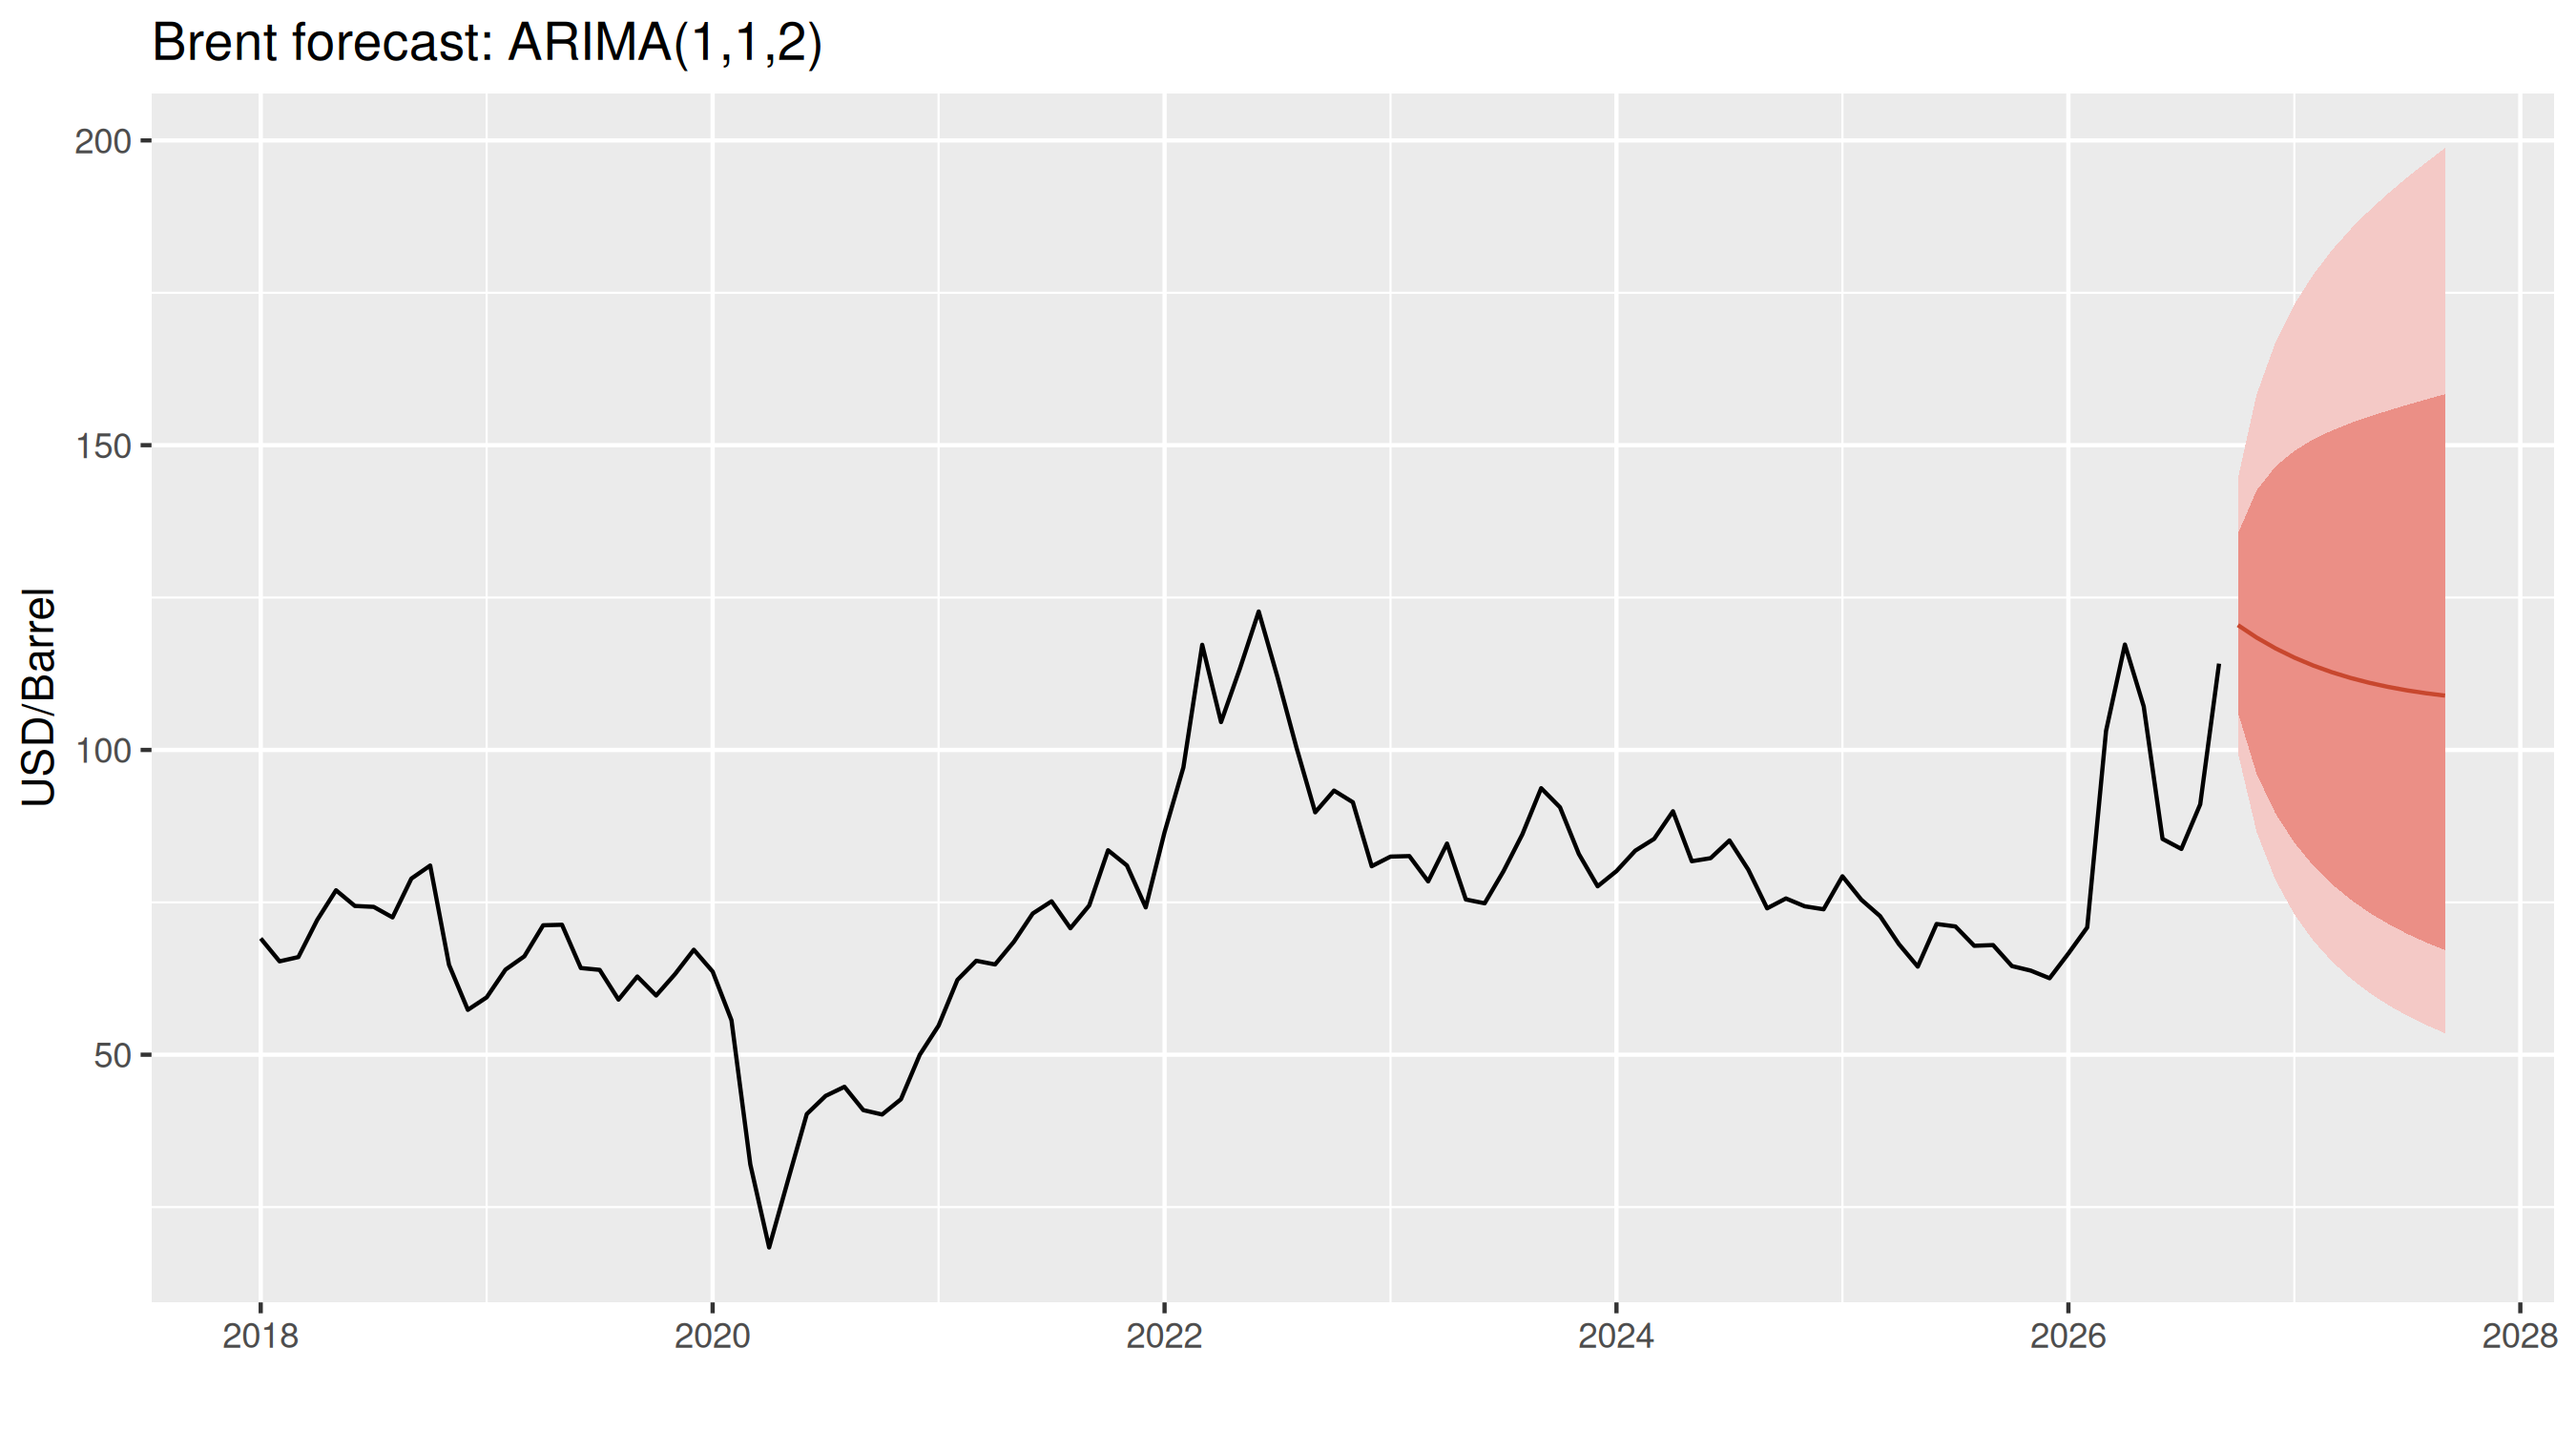
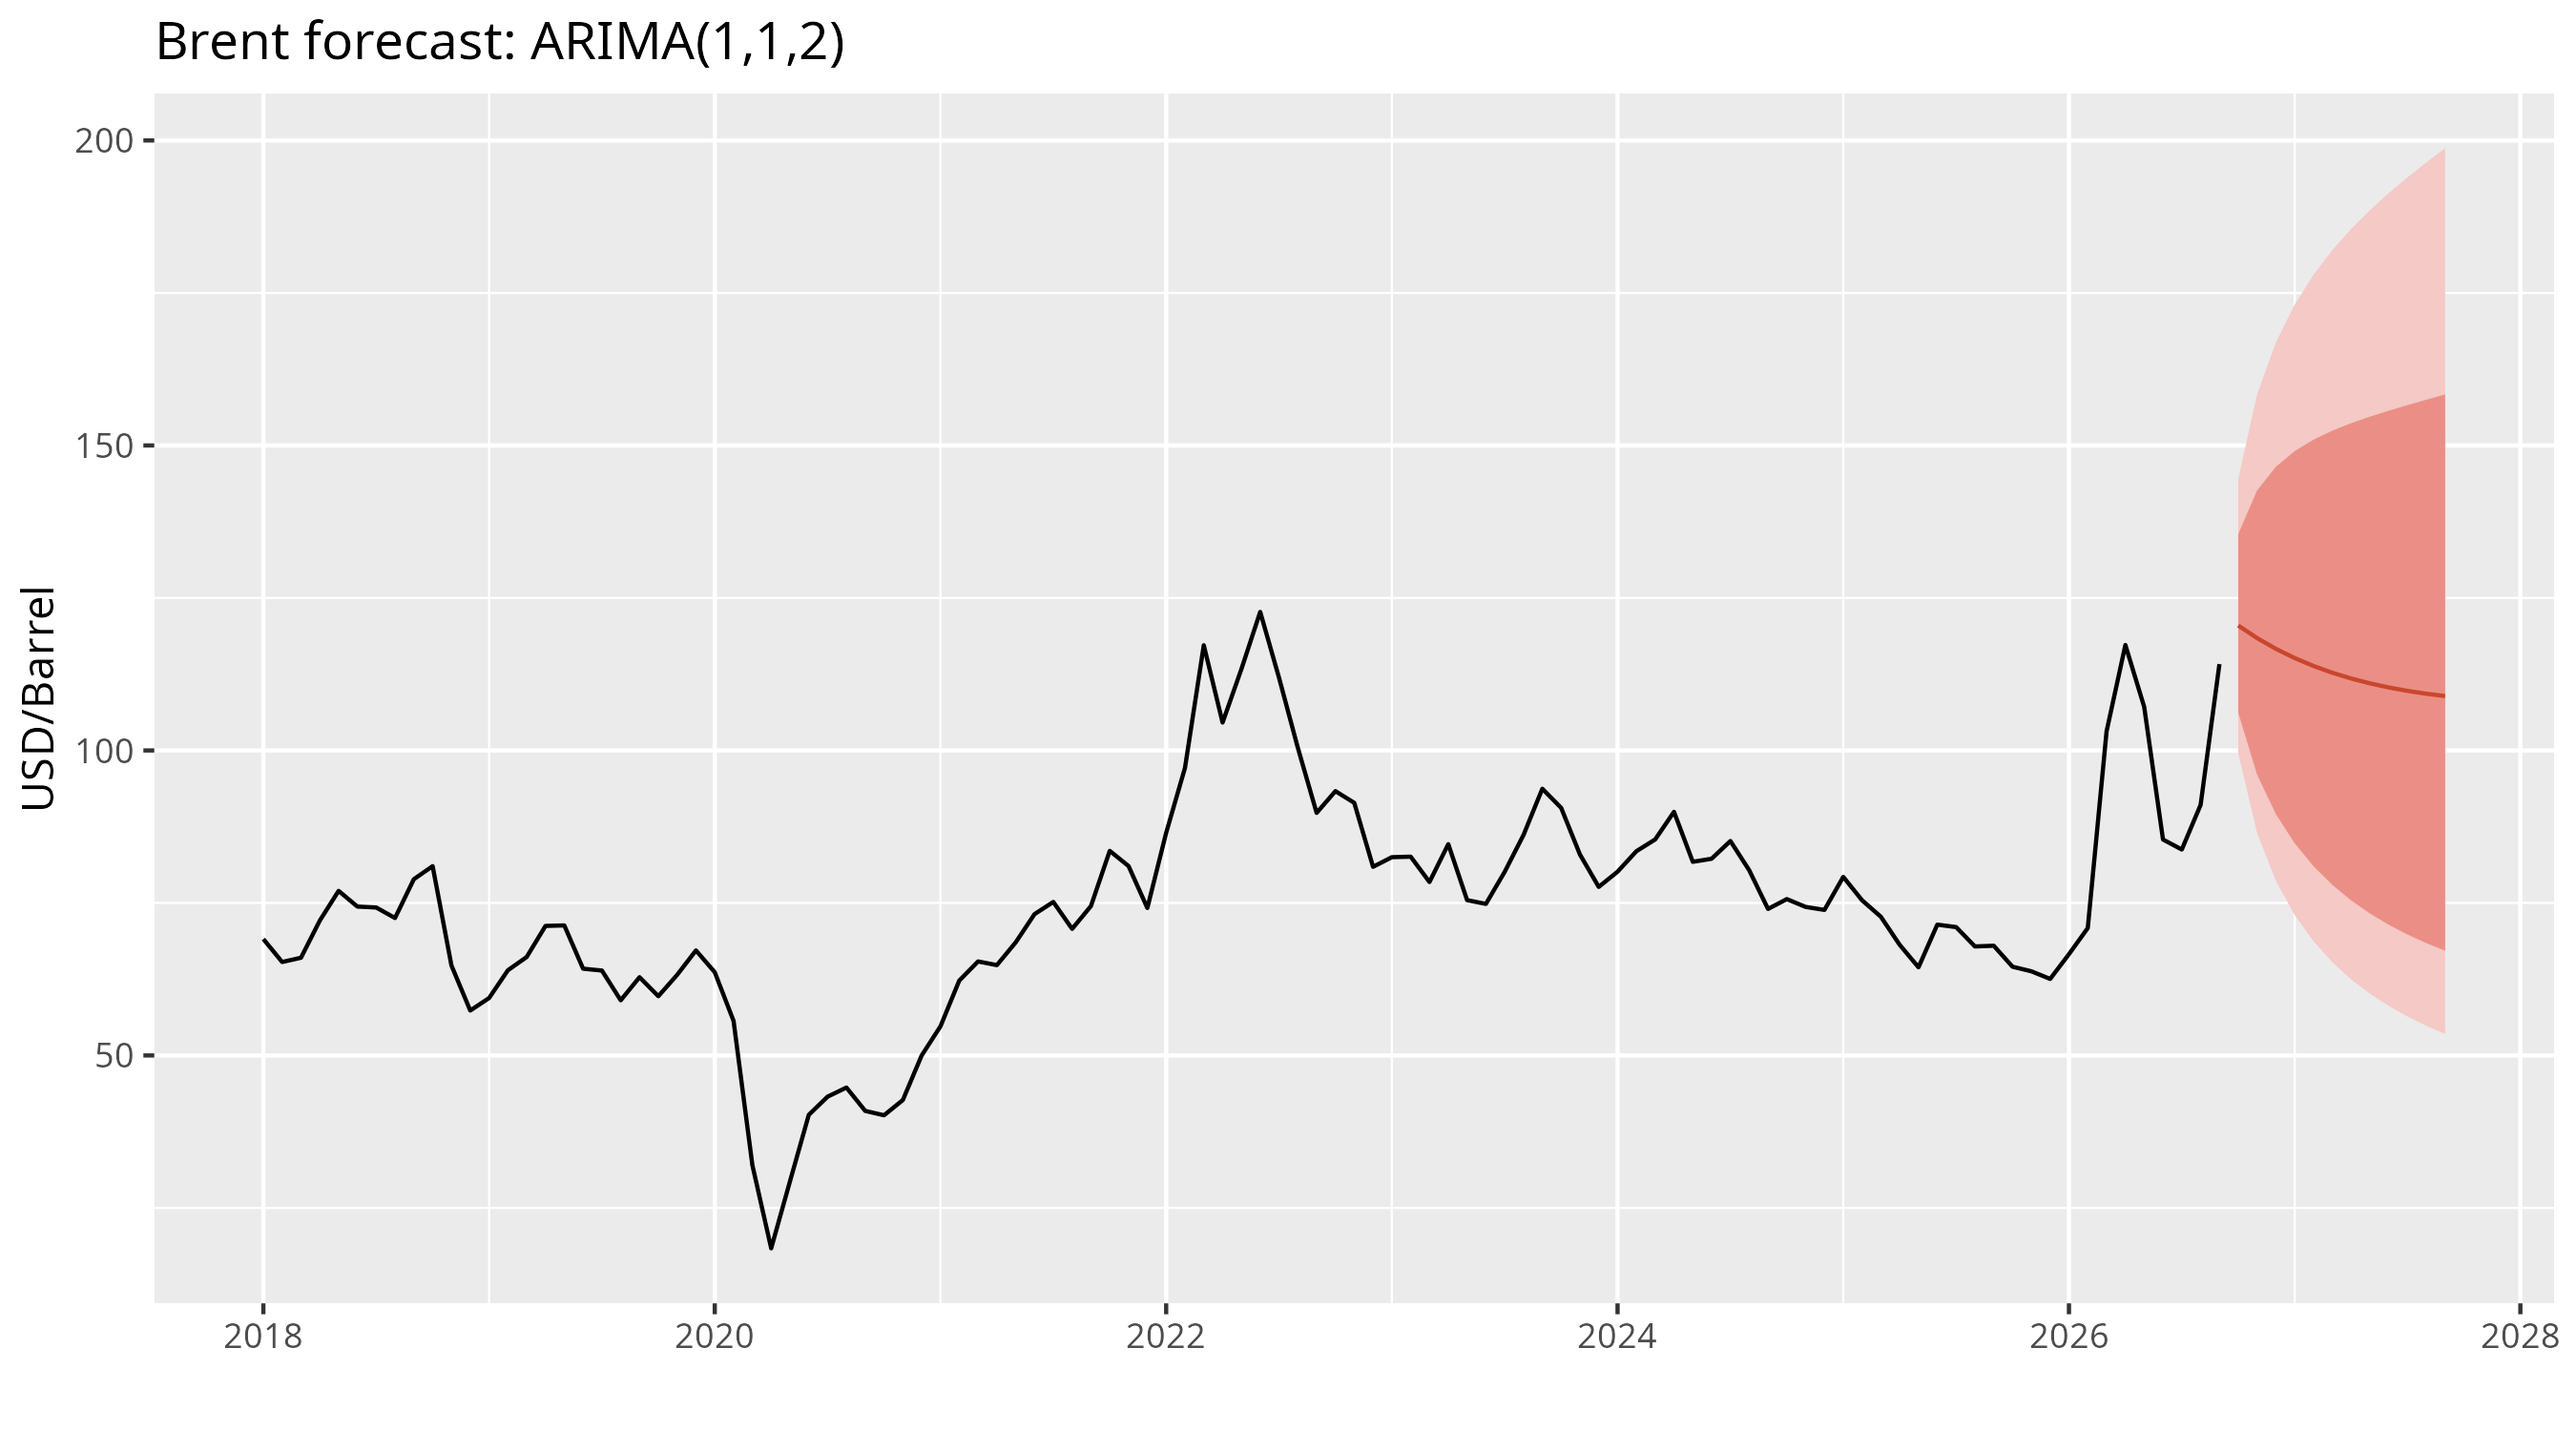
Forecast table in README, updated by Brent.R

diff --git a/README.md b/README.md
@@ -6,6 +6,31 @@ Time series forecasting of the **Europe Brent Spot Price FOB** (USD/barrel) with
 using the daily data published by the [EIA](https://www.eia.gov/dnav/pet/hist/LeafHandler.ashx?n=PET&s=rbrte&f=D)
 since 1987, aggregated to monthly means.
 
+## Latest forecast (monthly mean price, USD/barrel)
+
+![Forecast](plots/forecast-1.png)
+
+<!-- forecast:start -->
+Model **ARIMA(1,1,2)** on log(price). Data until **2026-10-20** (last price 115.2 USD), updated 2026-10-26.
+
+| Month | Forecast | 80 % interval | 95 % interval |
+| --- | ---: | :---: | :---: |
+| 2026-10 | 120.5 | 106.2 – 135.5 | 99.6 – 144.5 |
+| 2026-11 | 118.4 | 96.0 – 142.6 | 86.5 – 158.4 |
+| 2026-12 | 116.7 | 89.6 – 146.5 | 78.6 – 166.9 |
+| 2027-01 | 115.1 | 84.8 – 149.1 | 73.0 – 173.1 |
+| 2027-02 | 113.8 | 81.0 – 150.9 | 68.7 – 178.0 |
+| 2027-03 | 112.7 | 78.0 – 152.4 | 65.3 – 182.0 |
+| 2027-04 | 111.8 | 75.4 – 153.6 | 62.5 – 185.5 |
+| 2027-05 | 111.0 | 73.3 – 154.7 | 60.1 – 188.6 |
+| 2027-06 | 110.3 | 71.4 – 155.7 | 58.1 – 191.4 |
+| 2027-07 | 109.8 | 69.8 – 156.6 | 56.4 – 194.0 |
+| 2027-08 | 109.3 | 68.4 – 157.5 | 54.9 – 196.4 |
+| 2027-09 | 108.9 | 67.2 – 158.4 | 53.5 – 198.7 |
+<!-- forecast:end -->
+
+The table is updated every Sunday by GitHub Actions ([CSV](output/brent_forecast.csv)).
+
 ## Contents
 
 | File | Description |
@@ -62,9 +87,6 @@ change. The rendered `Brent.html` is attached to each run as an artifact.
 
 ### Residuals of the final ARIMA model
 ![Residuals](plots/residuals-1.png)
-
-### 12 month forecast
-![Forecast](plots/forecast-1.png)
 
 ## Notes
 
